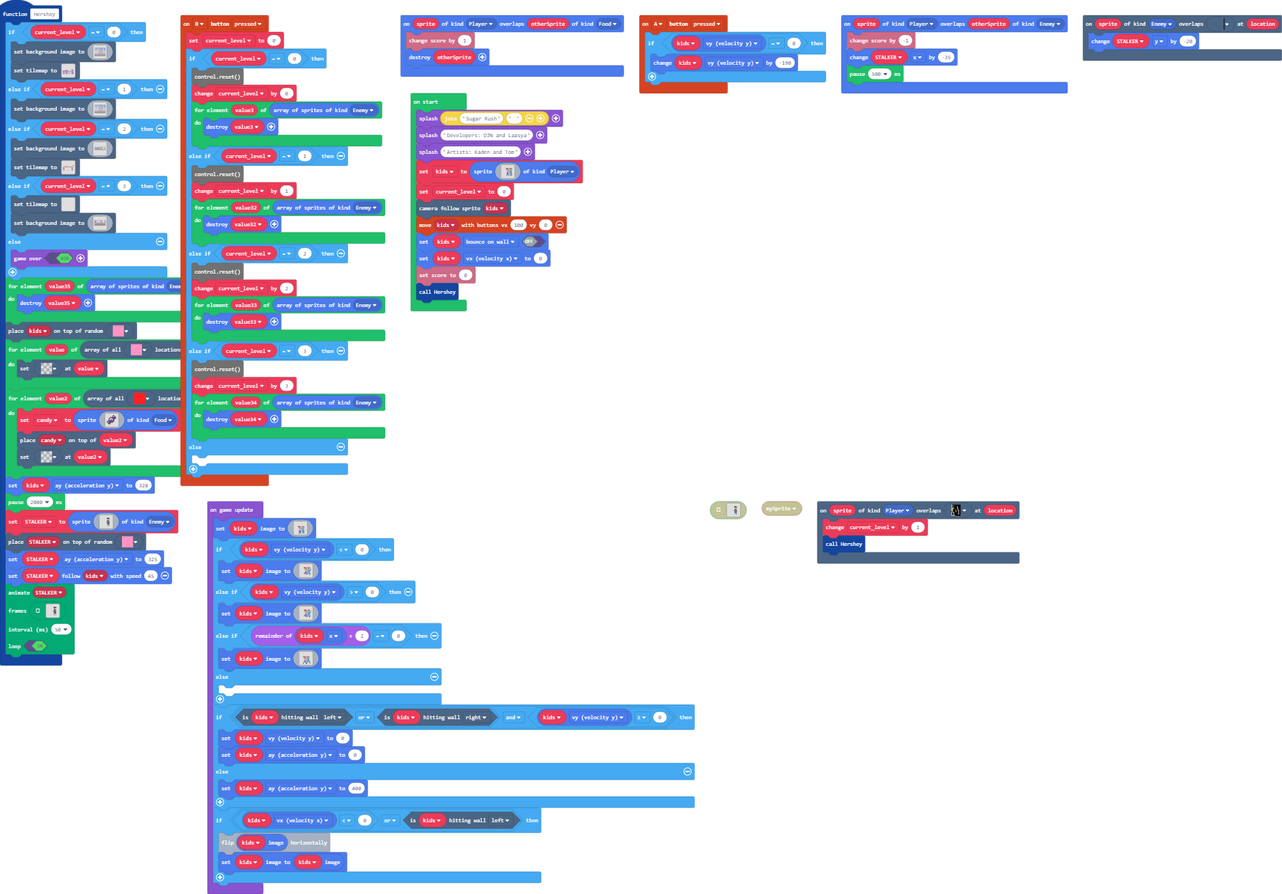
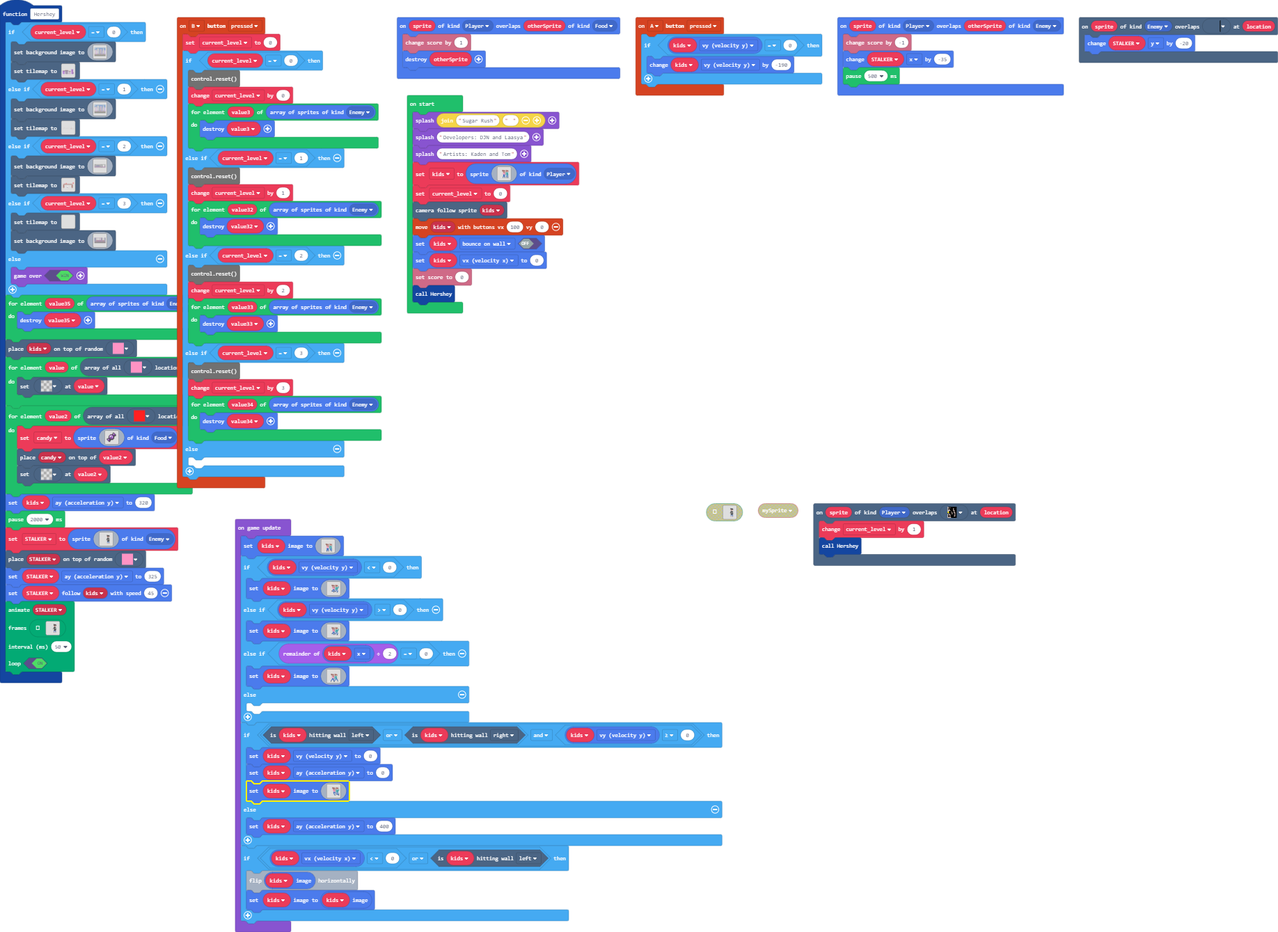
Update main.blocks, main.ts

Changed region(s): [[0.0, 0.0, 1.0, 1.0], [0.5278, 0.5296, 0.8072, 0.6542]]

diff --git a/main.ts b/main.ts
@@ -322,6 +322,25 @@ e e e e e e e e e e e e e e e e
 e e e e e e e e e e e e e e e e 
 e e e e e e e e e e e e e e e e 
 `
+    //% blockIdentity=images._tile
+    export const tile18 = img`
+f f f f f f f f f f f f f f f f 
+f 1 1 f 1 1 f 1 1 f 1 1 f 1 1 f 
+f 1 1 f 1 1 f 1 1 f 1 1 f 1 1 f 
+f f f f f f f f f f f f f f f f 
+f 1 1 1 1 1 1 1 1 1 1 1 1 1 1 f 
+f 1 1 1 1 1 1 1 1 1 1 1 1 1 1 f 
+f 1 1 1 1 1 1 1 1 1 1 1 1 1 1 f 
+f 1 1 1 1 1 1 1 1 1 1 1 1 1 1 f 
+f 1 1 1 1 1 1 1 1 1 1 1 1 1 1 f 
+f 1 1 1 1 1 1 1 1 1 1 1 1 1 1 f 
+f 1 1 1 1 1 1 1 1 1 1 1 1 1 1 f 
+f 1 1 1 1 1 1 1 1 1 1 1 1 1 1 f 
+f 1 1 1 1 1 1 1 1 1 1 1 1 1 1 f 
+f 1 1 1 1 1 1 1 1 1 1 1 1 1 1 f 
+f 1 1 1 1 1 1 1 1 1 1 1 1 1 1 f 
+f f f f f f f f f f f f f f f f 
+`
 }
 controller.B.onEvent(ControllerButtonEvent.Pressed, function () {
     current_level = 0
@@ -534,7 +553,7 @@ f f f f f f f f f f f f f f f f f f f f f f f f f f f f f f f f f f f f f f f f 
 . . . . . . . . . . . . . . . . . . . . . . . . . . . . . . . . . . . . . . . . . . . . . . . . . . 
 . . . . . . . . . . . . . . . . . . . . . . . . . . . . . . . . . . . . . . . . . . . . . . . . . . 
 `,
-            [myTiles.tile0,myTiles.tile1,myTiles.tile2,sprites.builtin.forestTiles0,myTiles.tile3,myTiles.tile4,myTiles.tile5,myTiles.tile6,myTiles.tile7,myTiles.tile8,myTiles.tile9,myTiles.tile10,myTiles.tile11,myTiles.tile12,myTiles.tile13,myTiles.tile14,myTiles.tile16,myTiles.tile17],
+            [myTiles.tile0,myTiles.tile1,myTiles.tile2,sprites.builtin.forestTiles0,myTiles.tile3,myTiles.tile4,myTiles.tile5,myTiles.tile6,myTiles.tile7,myTiles.tile8,myTiles.tile9,myTiles.tile10,myTiles.tile11,myTiles.tile12,myTiles.tile13,myTiles.tile14,myTiles.tile16,myTiles.tile17,myTiles.tile18],
             TileScale.Sixteen
         ))
     } else if (current_level == 1) {
@@ -660,6 +679,63 @@ f f f f f f f f f f f f f f f f f f f f f f f f f f f f f f f f f f f f f f f f 
 f f f f f f f f f f f f f f f f f f f f f f f f f f f f f f f f f f f f f f f f f f f f f f f f f f f f f f f f f f f f f f f f f f f f f f f f f f f f f f f f f f f f f f f f f f f f f f f f f f f f f f f f f f f f f f f f f f f f f f f f f f f f f f f f f f f f f f f f f f f f f f f f f f f f f f f f f f f f f f f f 
 f f f f f f f f f f f f f f f f f f f f f f f f f f f f f f f f f f f f f f f f f f f f f f f f f f f f f f f f f f f f f f f f f f f f f f f f f f f f f f f f f f f f f f f f f f f f f f f f f f f f f f f f f f f f f f f f f f f f f f f f f f f f f f f f f f f f f f f f f f f f f f f f f f f f f f f f f f f f f f f f 
 `)
+        tiles.setTilemap(tiles.createTilemap(
+            hex`640032000000000000000000000000000000000000000000000000000000000000000000000000000000000000000000000000000000000000000000000000000000000000000000000000000000000000000000000000000000000000000000000000000000000000000000000000000000000000000000000000000000000000000000000000000000000000000000000000000000000000000000000000000000000000000000000000000000000000000000000000000000000000000000000000000000000000000000000000000000000000000000000000000000000000000000000000000000000000000000000000000000000000000000000000000000000000000000000000000000000000000000000000000000000000000000000000000000000000000000000000000000000000000000000000000000000000000000000000000000000000000000000000000000000000000000000000000000000000000000000000000000000000000000000000000000000000000000000000000000000000000000000000000000000000000000000000000000000000000000000000000000000000000000000000000000000000000000000000000000000000000000000000000000000000000000000000000000000000000000000000000000000000000000000000000000000000000000000000000000000000000000000000000000000000000000000000000000000000000000000000000000000000000000000000000000000000000000000000000000000000000000000000000000000000000000000000000000000000000000000000000000000000000000000000000000000000000000000000000000000000000000000000000000000000000000000000000000000000000000000000000000000000000000000000000000000000000000000000000000000000000000000000000000000000000000000000000000000000000000000000000000000000000000000000000000000000000000000000000000000000000000000000000000000000000000000000000000000000000000000000000000000000000000000000000000000000000000000000000000000000000000000000000000000000000000000000000000000000000000000000000000000000000000000000000000000000000000000000000000000000000000000000000000000000000000000000000000000000000000000000000000000000000000000000000000000000000000000000000000000000000000000000000000000000000000000000000000000000000000000000000000000000000000000000000000000000000000000000000000000000000000000000000000000000000000000000000000000000000000000000000000000000000000000000000000000000000000000000000000000000000000000000000000000000000000000000000000000000000000000000000000000000000000000000000000000000000000000000000000000000000000000000000000000000000000000000000000000000000000000000000000000000000000000000000000000000000000000000000000000000000000000000000000000000000000000000000000000000000000000000000000000000000000000000000000000000000000000000000000000000000000000000000000000000000000000000000000000000000000000000000000000000000000000000000000000000000000000000000000000000070707000000000000000000000000000000000000000000000000000000000000000000000000000000000000000000000000000000000000000000000000000000000000000000000000000000000000000000000000000000000000000000000000000707070000000000000000000000000000000000000000000000000000000000000000000000000000000000000000000000000000000000000000000000000000000000000000000000000000000000000000000000000000000000000000000000000007070700000000000000000000000000000000000000000000000000000000000000000000000000000000000000000000000000000000000000000000000000000000000000000000000000000000000000000000000000000000000000000000000000070707000000000000000000000000000000000000000000000000000000000000000000000000000000000000000000000000000000000000000000000000000000000000000000000000000000000000000000000000000000000003000000000000000707070000000000000000000000000000000000000000000000000000000000000000000000000000000000000000000000000000000000000000000000000000000000000000000000000000000000000000000000000000000000000000000000000007070700000000000000000000000000000000000000000000000000000000000000000000000000000000000000000000000000000000000000000000000000000003000000000000000000000000000000000000000000000000000000000000000000070707000000000000000000000000000000000000000000000000000000000000000000000000000000000000000000000000000000000000000000000000000000000011110000000000000000000000000000000000000011110000001111111100070707070700000000000000000000000000000000000000000000000000000000000000000000000000000000000000000000000000000000000000000000000000000000000000000000000000000000000000000000000000000000000000000000000007070700000000000000000000000000000000000000000000000000000300000000000000000000000000000000000000000000000000000000000003000000001100000000000000000000000000000000000000000003000000000000000000000000000700000000000000000000000000000000000000000000000000000000000000000000000000000000000000000000000000000000000000000000000000000000000000000000000000000000000000000000000011110000000000000000000000000000000000000000000000000000000000000000000000000000000000000000000000000000000000000000000000000000000000000000000000000000111100000000000000000000000000000000000000000000000000000000000000000000000000000000000000000000000000000000000000000000000000001100000000000000000000000000000000000000000000000000000000000000000000000000000000000000000000000000000000000000001100000000000000000000000000000000000003000000000000000000000000000000000000000000001111000000000000000000000000000000000000000000000000000000000000111100000000000000000000000011111111111111111111111111111111111111111111110000000000000000000000000000000000000000000000000000000000031111110000000000000000000000000000000000000000000000000000000000000000000000000000000000000000000000000000000000000000000000000000000000001111000000000000000000000000000000000000000000000000000000001111111100000000000000000000000000000000000000000000000000000000030000000000000000000000000000000000000000000000000000000000000000000000000000110000000000000000000000000000000000010000000000000000001111111111000000000000000000030000000000000000000000000000000300111100000000000000000000000000000000000000000000000000000000000000000000000000001100000000000000000000000000000000000003000000000000031111111111111111111111111111111111111111111111000000001111111111111111000000000000000000000000000000000000000000000000000000000000000000000000000011000000000000000000000000000000021111111111111111111111000000000000000000000000000000000000000000000000030000000000000000000000000000000000000000000000000000000000000000000000000000000000000000000000110000000000000000000000000000001100000000000000000000000000000000000000000000000000000000000000000000000000000000000000000000000000000003000000030000000000000000000000000000000303030303030303030303031100000000000000000000000000001111000000000000000000000000000000000000000000000000000000000000000000000000000000000000000000000000000000000000000000000000000000000000000000000003030303030303030303030311000000000000000000000000001111110000000000000000000000000000000000000000000000000000000000000000001111111111111111111111111111110000111100001111000011111111111111110000000011111111111111111111111111000000000000000000000000001111111100000000000000000000000000000000000000000000000000000000000000000000000000000000000000000000000000000000000000000000000000000000000000000000000000000000000000000000000000000000000000000000001111111111000000000000000000000000000000000000000000000000000000000000000000000000000000000000000000000000000000000000000000000000000000000000000000000000000000000000000000000000000000000000000000001111111111110000000000000000000000000000000000000000000000000000000000000000000000000000000000000000000000000000000000000000000000000000000000001111111111111111111111111111111111111111111111111111111111111111111100000000000000000000000000000000000000000000000000000000000000000000000000000000000000000000000000000000000000000000000000000000000000000000000000000000000000000000000000000000000000000000000000000000000000000000000000000000000000000000000000000000000000000000000000000000000000000000000000000000000000000000000000000000000000000000000000000000000000000000000000000000000000000000000000000000000000000000000000000000000000000000000000000000000000000000000000000000000000000000000000000000000000000000000000000000000000000000000000000000000000000000000000000000000000000000000000000000000000000000000000000000000000000000000000000000000000000000000000000000000000000000000000000000000000000000000000000000000000000000000000000000000000000000000000000000000000000000000000000000000000000000000000000000000000000000000000000000000000000000000000000000000000000000000000000000000000000000000000000000000000000000000000000000000000000000000000000000000000000000000000000000000000000000000000000000000000000000000000000000000000000000000000000000000000000000000000000000000000000000000000000000000000000000000000000000000000000000000000000000000000000000000000000000000000000000000000000000000000000000000000000000000000000000000000000000000000000000000000000000000000000000000000000000000000000000000000000000000000000000000000000000000000000000000000000000000000000000000000000000000000000000000000000000000000000000000000000000000000000000000000000000000000000000000000000000000000000000000000000000000000000000000000000000000000000000000000000000000000000000000000000000000000000000000000000000000000000000000000000000000000000000000000000000000000000000000000000000000000000000000000000000000000000000000000000000000000000000000000000000000000000000000000000000000000000000000000000000000000000000000000000000000000000000000000000000000000000000000000000000000000000000000000000000000000000000000000000000000000000000000000000000000000000000000000000000000000000000000000000000000000000000000000000000000000000000000000000000000000000000000000000000000000000000000000000000000000000000000000000000000000000000000000000000000000000000000000000000000000000000000000000000000000000000000000000000000000000000000000000000000000000000000000000000000000000000000000000000000000000000000000000000000000000000000000000000000000000000000000000000000000000000000000000000000000000000000000000000000000000000000000000000000000000000000000000000000000000000000000000000000000000000000000000000000000000000000000000000000000000000000000000000000000000000000000000000000000000000000000000000000000000000000000000000`,
+            img`
+. . . . . . . . . . . . . . . . . . . . . . . . . . . . . . . . . . . . . . . . . . . . . . . . . . . . . . . . . . . . . . . . . . . . . . . . . . . . . . . . . . . . . . . . . . . . . . . . . . . . 
+. . . . . . . . . . . . . . . . . . . . . . . . . . . . . . . . . . . . . . . . . . . . . . . . . . . . . . . . . . . . . . . . . . . . . . . . . . . . . . . . . . . . . . . . . . . . . . . . . . . . 
+. . . . . . . . . . . . . . . . . . . . . . . . . . . . . . . . . . . . . . . . . . . . . . . . . . . . . . . . . . . . . . . . . . . . . . . . . . . . . . . . . . . . . . . . . . . . . . . . . . . . 
+. . . . . . . . . . . . . . . . . . . . . . . . . . . . . . . . . . . . . . . . . . . . . . . . . . . . . . . . . . . . . . . . . . . . . . . . . . . . . . . . . . . . . . . . . . . . . . . . . . . . 
+. . . . . . . . . . . . . . . . . . . . . . . . . . . . . . . . . . . . . . . . . . . . . . . . . . . . . . . . . . . . . . . . . . . . . . . . . . . . . . . . . . . . . . . . . . . . . . . . . . . . 
+. . . . . . . . . . . . . . . . . . . . . . . . . . . . . . . . . . . . . . . . . . . . . . . . . . . . . . . . . . . . . . . . . . . . . . . . . . . . . . . . . . . . . . . . . . . . . . . . . . . . 
+. . . . . . . . . . . . . . . . . . . . . . . . . . . . . . . . . . . . . . . . . . . . . . . . . . . . . . . . . . . . . . . . . . . . . . . . . . . . . . . . . . . . . . . . . . . . . . . . . . . . 
+. . . . . . . . . . . . . . . . . . . . . . . . . . . . . . . . . . . . . . . . . . . . . . . . . . . . . . . . . . . . . . . . . . . . . . . . . . . . . . . . . . . . . . . . . . . . . . . . . . . . 
+. . . . . . . . . . . . . . . . . . . . . . . . . . . . . . . . . . . . . . . . . . . . . . . . . . . . . . . . . . . . . . . . . . . . . . . . . . . . . . . . . . . . . . . . . . . . . . . . . . . . 
+. . . . . . . . . . . . . . . . . . . . . . . . . . . . . . . . . . . . . . . . . . . . . . . . . . . . . . . . . . . . . . . . . . . . . . . . . . . . . . . . . . . . . . . . . . . . . . . . . . . . 
+. . . . . . . . . . . . . . . . . . . . . . . . . . . . . . . . . . . . . . . . . . . . . . . . . . . . . . . . . . . . . . . . . . . . . . . . . . . . . . . . . . . . . . . . . . . . . . . . . . . . 
+. . . . . . . . . . . . . . . . . . . . . . . . . . . . . . . . . . . . . . . . . . . . . . . . . . . . . . . . . . . . . . . . . . . . . . . . . . . . . . . . . . . . . . . . . . . . . . . . . . . . 
+. . . . . . . . . . . . . . . . . . . . . . . . . . . . . . . . . . . . . . . . . . . . . . . . . . . . . . . . . . . . . . . . . . . . . . . . . . . . . . . . . . . . . . . . . . . . . . . . . . . . 
+. . . . . . . . . . . . . . . . . . . . . . . . . . . . . . . . . . . . . . . . . . . . . . . . . . . . . . . . . . . . . . . . . . . . . . . . . . . . . . . . . . . . . . . . . . . . . . . . . . . . 
+. . . . . . . . . . . . . . . . . . . . . . . . . . . . . . . . . . . . . . . . . . . . . . . . . . . . . . . . . . . . . . . . . . . . . . . . . . . . . . . . . . . . . . . . . . . . . . . . . . . . 
+. . . . . . . . . . . . . . . . . . . . . . . . . . . . . . . . . . . . . . . . . . . . . . . . . . . . . . . . . . . . . . . . . . . . . . . . . . . . . . . . . . . . . . . . . . . . . . . . . . . . 
+. . . . . . . . . . . . . . . . . . . . . . . . . . . . . . . . . . . . . . . . . . . . . . . . . . . . . . . . . . . . . . . . . . . . . . . . . . . . . . . . . . . . . . . . . . . . . . . . . . . . 
+. . . . . . . . . . . . . . . . . . . . . . . . . . . . . . . . . . . . . . . . . . . . . . . . . . . . . . . . . . . . . . . . . . . . . . . . . . . . . . . . . . . . . . . . . . . . . . . . . . . . 
+. . . . . . . . . . . . . . . . . . . . . . . . . . . . . . . . . . . . . . . . . . . . . . . . . . . . . . . . . . . . . . . . . . . . . . . . . . . . . . . . . . . . . . . . . . . . . . . . . . . . 
+. . . . . . . . . . . . . . . . . . . . . . . . . . . . . . . . . . . . . . . . . . . . . . . . . . . . . . . . . 2 2 . . . . . . . . . . . . . . . . . . . 2 2 . . . 2 2 2 2 . . . . . . . . . . . . . 
+. . . . . . . . . . . . . . . . . . . . . . . . . . . . . . . . . . . . . . . . . . . . . . . . . . . . . . . . . . . . . . . . . . . . . . . . . . . . . . . . . . . . . . . . . . . . . . . . . . . . 
+. . . . . . . . . . . . . . . . . . . . . . . . . . . . . . . . . . . . . . . . . . . . . . . . . . . . . . 2 . . . . . . . . . . . . . . . . . . . . . . . . . . . . . . . . . . . . . . . . . . . . . 
+. . . . . . . . . . . . . . . . . . . . . . . . . . . . . . . . . . . . . . . . . . . . . . . . . . . . . . . . . . . . . . . . . . . . . . . . . . . 2 2 . . . . . . . . . . . . . . . . . . . . . . . 
+. . . . . . . . . . . . . . . . . . . . . . . . . . . . . . . . . . . . . . . . . . . . . . . . . . . 2 2 . . . . . . . . . . . . . . . . . . . . . . . . . . . . . . . . . . . . . . . . . . . . . . . 
+. . . . . . . . . . . . . . . 2 . . . . . . . . . . . . . . . . . . . . . . . . . . . . . . . . . . . . . . . . . . . . . . . . . . . . . . . . 2 . . . . . . . . . . . . . . . . . . . . . . . . . . . 
+2 . . . . . . . . . . . . . 2 2 . . . . . . . . . . . . . . . . . . . . . . . . . . . . . . 2 2 . . . . . . . . . . . . 2 2 2 2 2 2 2 2 2 2 2 2 2 2 2 2 2 2 2 2 2 2 2 . . . . . . . . . . . . . . . . . 
+2 . . . . . . . . . . . . 2 2 2 . . . . . . . . . . . . . . . . . . . . . . . . . . . . . . . . . . . . . . . . . . . . . . . . . . . . . . . . . . . . . . . . . . 2 2 . . . . . . . . . . . . . . . . 
+2 . . . . . . . . . . . 2 2 2 2 . . . . . . . . . . . . . . . . . . . . . . . . . . . . . . . . . . . . . . . . . . . . . . . . . . . . . . . . . . . . . . . . . . . 2 . . . . . . . . . . . . . . . . 
+2 . . . . . . . . . . 2 2 2 2 2 . . . . . . . . . . . . . . . . . . . . . . . . . . . 2 2 . . . . . . . . . . . . . . . . . . . . . . . . . . . . . . . . . . . . . . 2 . . . . . . . . . . . . . . . . 
+2 . . . . . . . . . 2 2 2 2 2 2 2 2 2 2 2 2 2 2 2 2 2 2 2 2 2 2 2 . . . . 2 2 2 2 2 2 2 2 . . . . . . . . . . . . . . . . . . . . . . . . . . . . . . . . . . . . . . 2 . . . . . . . . . . . . . . . . 
+2 2 2 2 2 2 2 2 2 2 2 . . . . . . . . . . . . . . . . . . . . . 2 . . . . . . . . . . . . . . . . . . . . . . . . . . . . . . . . . . . . . . . . . . . . . . . . . . 2 . . . . . . . . . . . . . . . 2 
+. . . . . . . . . . . . . . . . . . . . . . . . . . . . . . . . 2 . . . . . . . . . . . . . . . . . . . . . . . . . . . . . . . . . . . . . . . . . . . . . . . . . . 2 . . . . . . . . . . . . . . 2 2 
+. . . . . . . . . . . . . . . . . . . . . . . . . . . . . . . . 2 . . . . . . . . . . . . . . . . . . . . . . . . . . . . . . . . . . . . . . . . . . . . . . . . . . 2 . . . . . . . . . . . . . 2 2 2 
+. . . . . . . . . . . . . . . . . . . . . . . . . . . . . . . . 2 2 2 2 2 2 2 2 2 2 2 2 2 2 2 2 . . 2 2 . . 2 2 . . 2 2 2 2 2 2 2 2 . . 2 2 2 2 2 2 2 2 2 2 2 2 2 2 2 . . . . . . . . . . . . . 2 2 2 2 
+. . . . . . . . . . . . . . . . . . . . . . . . . . . . . . . . . . . . . . . . . . . . . . . . . . . . . . . . . . . . . . . . . 2 . . . . . . . . . . . . . . . . . . . . . . . . . . . . . 2 2 2 2 2 
+. . . . . . . . . . . . . . . . . . . . . . . . . . . . . . . . . . . . . . . . . . . . . . . . . . . . . . . . . . . . . . . . . 2 . . . . . . . . . . . . . . . . . . . . . . . . . . . . 2 2 2 2 2 2 
+. . . . . . . . . . . . . . . . . . . . . . . . . . . . . . . . . . . . . . . . . . . . . . . . . . . . . . . . . . . . . . . . . 2 2 2 2 2 2 2 2 2 2 2 2 2 2 2 2 2 2 2 2 2 2 2 2 2 2 2 2 2 2 2 2 2 2 2 
+. . . . . . . . . . . . . . . . . . . . . . . . . . . . . . . . . . . . . . . . . . . . . . . . . . . . . . . . . . . . . . . . . . . . . . . . . . . . . . . . . . . . . . . . . . . . . . . . . . . . 
+. . . . . . . . . . . . . . . . . . . . . . . . . . . . . . . . . . . . . . . . . . . . . . . . . . . . . . . . . . . . . . . . . . . . . . . . . . . . . . . . . . . . . . . . . . . . . . . . . . . . 
+. . . . . . . . . . . . . . . . . . . . . . . . . . . . . . . . . . . . . . . . . . . . . . . . . . . . . . . . . . . . . . . . . . . . . . . . . . . . . . . . . . . . . . . . . . . . . . . . . . . . 
+. . . . . . . . . . . . . . . . . . . . . . . . . . . . . . . . . . . . . . . . . . . . . . . . . . . . . . . . . . . . . . . . . . . . . . . . . . . . . . . . . . . . . . . . . . . . . . . . . . . . 
+. . . . . . . . . . . . . . . . . . . . . . . . . . . . . . . . . . . . . . . . . . . . . . . . . . . . . . . . . . . . . . . . . . . . . . . . . . . . . . . . . . . . . . . . . . . . . . . . . . . . 
+. . . . . . . . . . . . . . . . . . . . . . . . . . . . . . . . . . . . . . . . . . . . . . . . . . . . . . . . . . . . . . . . . . . . . . . . . . . . . . . . . . . . . . . . . . . . . . . . . . . . 
+. . . . . . . . . . . . . . . . . . . . . . . . . . . . . . . . . . . . . . . . . . . . . . . . . . . . . . . . . . . . . . . . . . . . . . . . . . . . . . . . . . . . . . . . . . . . . . . . . . . . 
+. . . . . . . . . . . . . . . . . . . . . . . . . . . . . . . . . . . . . . . . . . . . . . . . . . . . . . . . . . . . . . . . . . . . . . . . . . . . . . . . . . . . . . . . . . . . . . . . . . . . 
+. . . . . . . . . . . . . . . . . . . . . . . . . . . . . . . . . . . . . . . . . . . . . . . . . . . . . . . . . . . . . . . . . . . . . . . . . . . . . . . . . . . . . . . . . . . . . . . . . . . . 
+. . . . . . . . . . . . . . . . . . . . . . . . . . . . . . . . . . . . . . . . . . . . . . . . . . . . . . . . . . . . . . . . . . . . . . . . . . . . . . . . . . . . . . . . . . . . . . . . . . . . 
+. . . . . . . . . . . . . . . . . . . . . . . . . . . . . . . . . . . . . . . . . . . . . . . . . . . . . . . . . . . . . . . . . . . . . . . . . . . . . . . . . . . . . . . . . . . . . . . . . . . . 
+. . . . . . . . . . . . . . . . . . . . . . . . . . . . . . . . . . . . . . . . . . . . . . . . . . . . . . . . . . . . . . . . . . . . . . . . . . . . . . . . . . . . . . . . . . . . . . . . . . . . 
+. . . . . . . . . . . . . . . . . . . . . . . . . . . . . . . . . . . . . . . . . . . . . . . . . . . . . . . . . . . . . . . . . . . . . . . . . . . . . . . . . . . . . . . . . . . . . . . . . . . . 
+`,
+            [myTiles.tile0,myTiles.tile1,myTiles.tile2,myTiles.tile3,myTiles.tile4,myTiles.tile5,myTiles.tile6,myTiles.tile7,myTiles.tile8,myTiles.tile9,myTiles.tile10,myTiles.tile11,myTiles.tile12,myTiles.tile13,myTiles.tile14,myTiles.tile16,myTiles.tile17,myTiles.tile18],
+            TileScale.Sixteen
+        ))
     } else if (current_level == 2) {
         scene.setBackgroundImage(img`
 b b b b b b b b b b b b b b b b b b b b b b b b b b b b b b b b b b b b b b f f f f f f f f f f f f f f f b b b b b b b b b b b b b b b b b b b b b b b b b b b b b b b b b b b b b b b b b b b b b b b b b b b b b b b b b b b b b b b b b b b b b b b b b b b b b b b b b b b b b b b b b b b b b b b b b b b b b b b b b b b b b b b b b b b b b b b b b b b b b b b b b b b b b b b b b b b b b b b b b b b b b b b b b b b b b b b b b b b b b b b b b b b b b b b b b b b b b b b b b b b b b b b b b b f f f f f f f f f f f f f f f f f f b b b b b b b b b b b b b b b b b b b b b b b b b b b b b b b b b b b b b b b b b b b b b b b b b b b b b b b b b b b b b b b b b b b b b b b b b b b b b b b b b b b b b b b b b b b b b b b b b b b b b b b b b b b b b b b b b b b b b b b b b b b b b b b b b b b b b b b 
@@ -819,7 +895,7 @@ d d d d d d d d d d d d d d d d d d d d d d d d d d d d d d d d d d d d d d d d 
 . . . . . . 2 . . . . . . . . . . . . . . . . . . . . . . . . . . . . . . . . . . . . . . . . . . . 
 . . . . . . 2 . . . . . . . . . . . . . . . . . . . . . . . . . . . . . . . . . . . . . . . . . . . 
 `,
-            [myTiles.tile0,myTiles.tile1,myTiles.tile2,sprites.builtin.forestTiles0,myTiles.tile3,myTiles.tile4,myTiles.tile5,myTiles.tile6,myTiles.tile7,myTiles.tile8,myTiles.tile9,myTiles.tile10,myTiles.tile11,myTiles.tile12,myTiles.tile13,myTiles.tile14,myTiles.tile16,myTiles.tile17],
+            [myTiles.tile0,myTiles.tile1,myTiles.tile2,sprites.builtin.forestTiles0,myTiles.tile3,myTiles.tile4,myTiles.tile5,myTiles.tile6,myTiles.tile7,myTiles.tile8,myTiles.tile9,myTiles.tile10,myTiles.tile11,myTiles.tile12,myTiles.tile13,myTiles.tile14,myTiles.tile16,myTiles.tile17,myTiles.tile18],
             TileScale.Sixteen
         ))
     } else if (current_level == 3) {
@@ -859,7 +935,7 @@ d d d d d d d d d d d d d d d d d d d d d d d d d d d d d d d d d d d d d d d d 
 . . . . . . . . . . . . . . . . . . . . . . . . . . . . . . . . . . . . . . . . . . . . . . . . . . . . . . . . . . . . . . . . . . . . . . . . . . . . . . . . . . . . . . . . . . . . . . . . . . . . 
 . . . . . . . . . . . . . . . . . . . . . . . . . . . . . . . . . . . . . . . . . . . . . . . . . . . . . . . . . . . . . . . . . . . . . . . . . . . . . . . . . . . . . . . . . . . . . . . . . . . . 
 `,
-            [myTiles.tile0,sprites.builtin.forestTiles0,myTiles.tile1,myTiles.tile2,myTiles.tile3,myTiles.tile4,myTiles.tile5,myTiles.tile6,myTiles.tile7,myTiles.tile8,myTiles.tile9,myTiles.tile10,myTiles.tile11,myTiles.tile12,myTiles.tile13,myTiles.tile14,myTiles.tile16,myTiles.tile17],
+            [myTiles.tile0,sprites.builtin.forestTiles0,myTiles.tile1,myTiles.tile2,myTiles.tile3,myTiles.tile4,myTiles.tile5,myTiles.tile6,myTiles.tile7,myTiles.tile8,myTiles.tile9,myTiles.tile10,myTiles.tile11,myTiles.tile12,myTiles.tile13,myTiles.tile14,myTiles.tile16,myTiles.tile17,myTiles.tile18],
             TileScale.Sixteen
         ))
         scene.setBackgroundImage(img`
@@ -1579,6 +1655,43 @@ game.onUpdate(function () {
     if ((kids.isHittingTile(CollisionDirection.Left) || kids.isHittingTile(CollisionDirection.Right)) && kids.vy >= 0) {
         kids.vy = 0
         kids.ay = 0
+        kids.setImage(img`
+. . . . . . . . . . . . . . . . . . . . . . . . . . . . . . . . . . . 
+. . . . . . . . . . . . . . . . . . . . . . . . . . . . . . . . . . . 
+. . . . . . . . . . . . . . . . . . . . . . . . . . . . . . . . . . . 
+. . . . . . . . . . . . . . . . . . . . . . . . . . . . . . . . . . . 
+. . . . . . . . . . . . . . . . . . . . . . . . . . . . . . . . . . . 
+. . . . . . . . . . . . . . . . . . . . . . . . . . . . . . . . . . . 
+. . . . . . . . . . . . . . e e . . . . . . . . . . e . . . . . . . . 
+. . . . . . . . . . . . . e e e f e e e e e . . e e e e e e e e . . . 
+. . . . . . . . . . . . . e e f e e e e e e e . . . e e e e e e e . . 
+. . . . . . . . . . . . . . d . e e e e e e e . . . e e e e e e e . d 
+. . . . . . . . . . . . . . d . e e e d d d e . . . e e e d d d e . d 
+. . . . . . . . . . . . . . 3 . e d e d d d e . . . e d e d d d e . 6 
+. . . . . . . . . . . . . . 3 . e e e d d d e . . . . e d d d d . . 6 
+. . . . . . . . . . . . . . . 3 . e e d e e e . . 6 6 6 6 d 6 6 . 6 6 
+. . . . . . . . . . . . . . . 3 . 3 e d 3 e e . . 6 6 6 6 6 d 6 . 6 6 
+. . . . . . . . . . . . . . . 3 3 3 e 3 3 3 e . . . 6 6 6 6 6 6 6 6 6 
+. . . . . . . . . . . . . . . . 3 3 3 3 3 3 e . . 6 6 6 6 6 6 6 6 6 . 
+. . . . . . . . . . . . . . . . . . 3 3 3 3 . . . 6 6 . 6 6 6 6 6 . . 
+. . . . . . . . . . . . . . . . . . 3 3 3 3 . . 6 6 6 . 6 6 6 6 . . . 
+. . . . . . . . . . . . . . . . . . 3 3 3 3 . . 6 6 6 . 6 6 6 6 . . . 
+. . . . . . . . . . . . . . . . . 8 8 8 8 8 3 . 6 6 . . 6 6 6 6 . . . 
+. . . . . . . . . . . . . . . . . 8 8 8 8 8 3 . 6 6 . 6 6 8 8 6 . . . 
+. . . . . . . . . . . . . . . . . 8 8 . 8 8 8 d d . . 8 8 . . 8 . . . 
+. . . . . . . . . . . . . . . . . 8 8 . . 8 8 8 . . . 8 8 . . . 8 . . 
+. . . . . . . . . . . . . . . . . . 8 . . . . . 8 8 . . 8 . . . 8 . . 
+. . . . . . . . . . . . . . . . . . 8 8 . . . . . 8 . . 8 8 . . . 8 f 
+. . . . . . . . . . . . . . . . . . 8 8 8 . . . . 8 . . 8 8 8 . . . f 
+. . . . . . . . . . . . . . . . . . . . 8 . . . . f f . . 8 8 8 . . f 
+. . . . . . . . . . . . . . . . . . . . 8 . . . . f . . . 8 8 8 8 8 . 
+. . . . . . . . . . . . . . . . . . . . 8 8 . . . . . . . . . . 8 f . 
+. . . . . . . . . . . . . . . . . . . . . 8 f f . . . . . . . . . f f 
+. . . . . . . . . . . . . . . . . . . . . . . . . . . . . . . . . . . 
+. . . . . . . . . . . . . . . . . . . . . . . . . . . . . . . . . . . 
+. . . . . . . . . . . . . . . . . . . . . . . . . . . . . . . . . . . 
+. . . . . . . . . . . . . . . . . . . . . . . . . . . . . . . . . . . 
+`)
     } else {
         kids.ay = 400
     }
